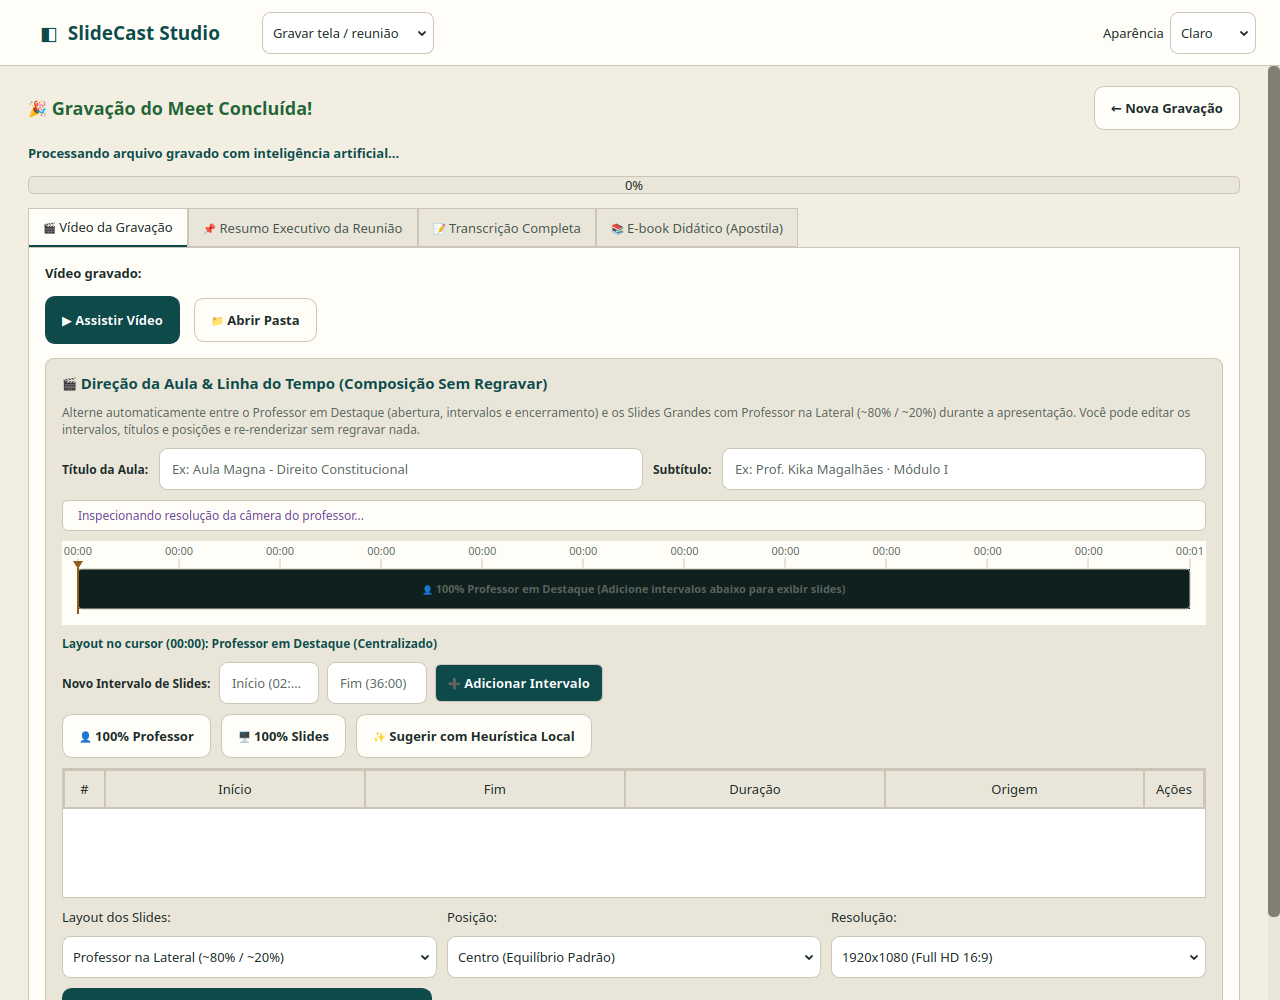
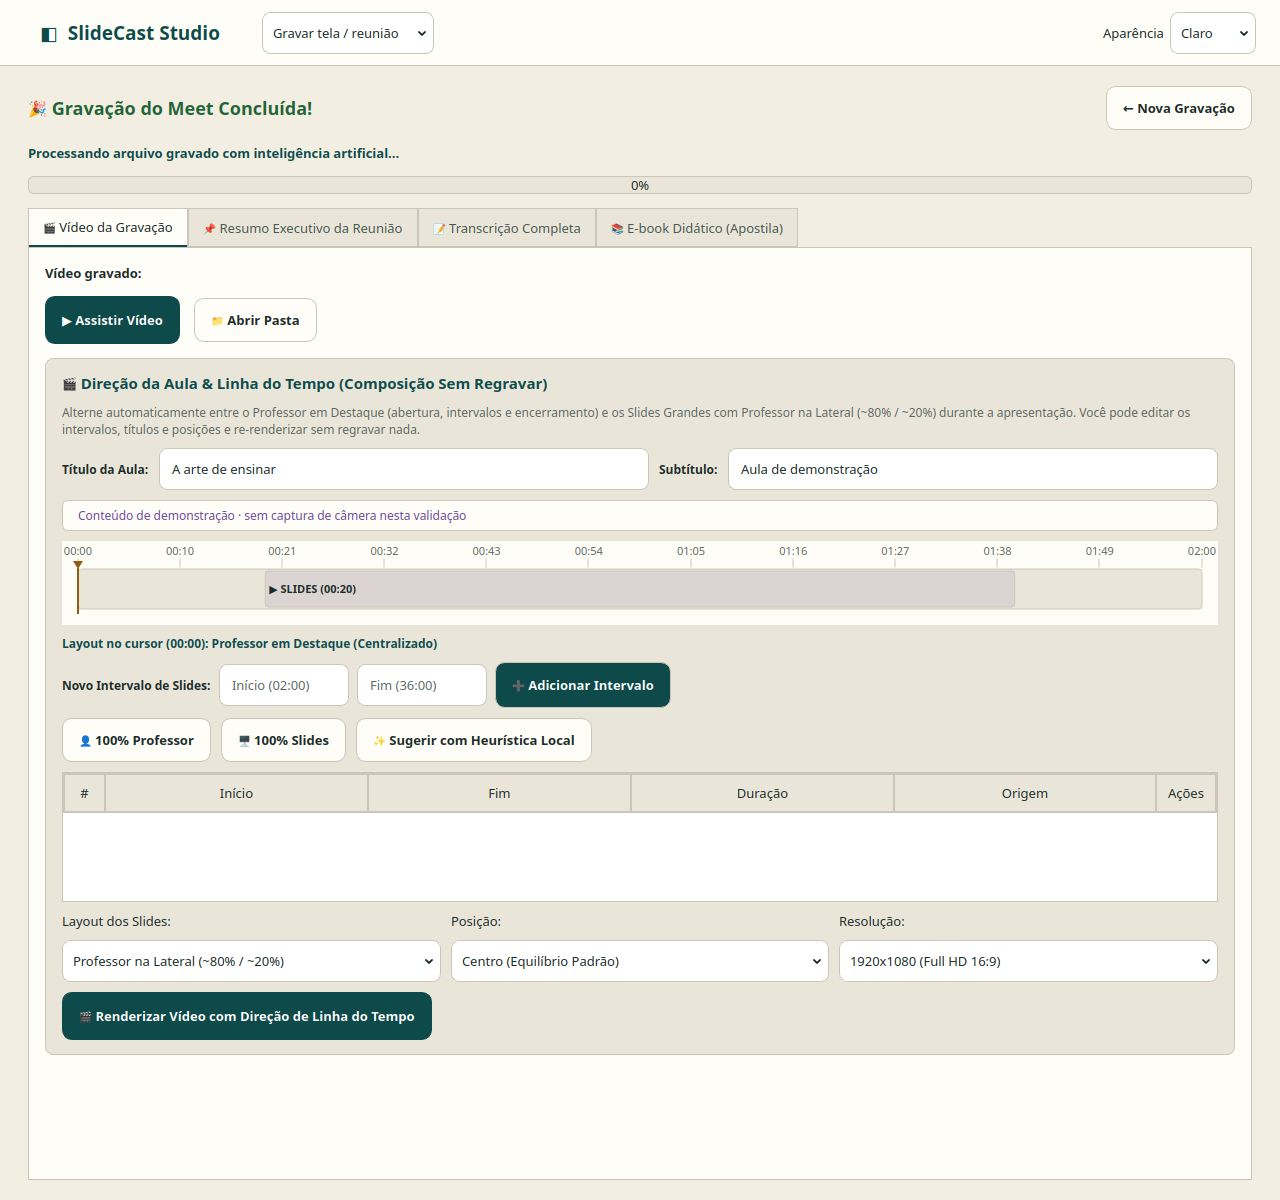
Document published packages, production checks, and backend licensing handoff

diff --git a/docs/slidecast-distribuicao-validacao.md b/docs/slidecast-distribuicao-validacao.md
@@ -1,0 +1,65 @@
+# Distribuição desktop e refinamento visual — 19/11/2026
+
+## Escopo
+
+Versão desktop 1.2.0: temas claro/escuro, editor PDF/MP4 com quatro faixas, gravação, captura em duas áreas e direção de aula por intervalos. O código de captura/direção integrado por outra frente foi preservado. O acabamento adicional corrige estilos de painéis herdados pelos filhos, reduz bordas decorativas a 1 px, amplia botões e organiza os campos da captura/direção em grades sem rolagem horizontal a 1280 px.
+
+Fonte desktop preparada: `143cef1baacdd28a3021a091e95715feb72eba69`. A publicação é feita pelo workflow Desktop release, que só cria a release após os três sistemas passarem pelo teste do executável empacotado. Os dados finais dos arquivos constam em `evidencias/distribuicao/release-metadata.json`.
+
+## Empacotamento e verificações
+
+- FFmpeg completo e ffprobe são incluídos como binários PyInstaller, com dependências compartilhadas coletadas. O aplicativo congelado prioriza as ferramentas internas; execução pelo código-fonte mantém o comportamento de PATH.
+- A versão compacta do FFmpeg do imageio foi substituída porque não oferecia PulseAudio. O teste agora exige `pulse`/`x11grab` no Linux, `dshow`/`gdigrab` no Windows e `avfoundation` no macOS.
+- O Windows usa o arquivo oficial distribuído pela Gyan, com SHA256 fixado no workflow. Linux usa Ubuntu 24.04; macOS usa o runner 15 Apple Silicon. O runner macOS 14 foi substituído após sua retirada pelo GitHub.
+- O teste executa o próprio bundle com PATH vazio no Linux/macOS e restrito ao System32 no Windows, sem overrides de FFmpeg/Python do desenvolvedor.
+- São gerados MP4s reais a partir de PDF e MP4 com quatro faixas, validados por ffprobe; o projeto é salvo/reaberto e a janela Qt é desenhada em ambos os temas.
+- A verificação local do bundle Linux passou com FFmpeg/ffprobe 6.1.1: PDF e MP4 de 2,0 s, 320×180, áudio presente e módulos de captura disponíveis.
+
+Referências primárias de distribuição: [FFmpeg](https://ffmpeg.org/download.html), [Gyan](https://www.gyan.dev/ffmpeg/builds/), [runners oficiais do GitHub](https://github.com/actions/runner-images).
+
+## Interface e testes locais
+
+A suíte final passou com **229 testes** em 146,73 s, após a integração dos recursos e dos ajustes. A validação direcionada anterior passou com 50 testes de desktop, gravação, direção e roteamento. Ruff e build TypeScript/Vite passaram. Há um aviso de depreciação do TestClient/httpx, sem falhas.
+
+Capturas reais Qt: `evidencias/refino-claro/` e `evidencias/refino-escuro/`. Incluem painéis de aula, menu, editor, estúdio, captura em duas áreas e direção por linha do tempo. As amostras de mídia são sintéticas; não se trata de gravação de câmera/microfone físico. A interface também foi conferida a 1280×800 e escala 150% em cenários de estúdio.
+
+## Site e disponibilidade
+
+A landing usa `frontend/landing/public/releases.json`, copiado para o build e servido também por `GET /api/releases/latest`. O campo `status` controla a exposição dos downloads. Em preparação, não há botões que levem a arquivos ainda inexistentes. Na publicação, versão, data, tamanho e SHA256 devem vir dos assets reais da release, e cada relatório de self-test deve estar aprovado.
+
+A landing não anuncia preço, gratuidade, trial ou licença comercial não definidos. Compra/ativação continuam como trabalho do backend, descrito no [prompt de implementação](SLIDECAST_PROMPT_BACKEND_COMPRA_LICENCA_ATIVACAO.md).
+
+## Produção e reversão
+
+Servidor existente, `/opt/slidecast`, Compose `slidecast`. Backup desta etapa: `/opt/slidecast/backups/distribution-20261119T201601Z`, restrito ao root, com landing anterior, fonte, cópia consistente do banco, imagens e IDs dos containers. Imagem web anterior preservada pela tag `slidecast-web:rollback-distribution-20261119T201601Z`.
+
+Antes da distribuição, o site foi corrigido para mostrar o estado de preparação: Chromium a 390 px confirmou dois avisos de preparação, zero links para assets ainda não publicados e ausência de overflow horizontal. Essa correção estática emergencial foi incorporada à imagem final na ativação. Configuração, dados, Redis, worker e demais aplicações são preservados.
+
+## Limites
+
+Pacotes portáteis/aplicativo empacotado, sem assistente MSI/DEB/RPM nem assinatura comercial de código. Compatibilidade mínima anunciada: Windows 10/11 x64, Ubuntu 24.04 x64 (glibc 2.39), macOS 15 Apple Silicon. Os runners comprovam funcionamento automatizado; não substituem homologação com câmera, microfone, monitores, permissões e drivers físicos. No Linux, captura de tela usa X11; ambientes Wayland podem exigir sessão X11.
+
+## Resultado final
+
+A [release v1.2.0](https://github.com/kikamagalhaes/slidecast-studio/releases/tag/v1.2.0) foi publicada em 2026-11-19T20:34:19Z, com nove assets: três pacotes, três arquivos SHA256 e três relatórios. O [workflow de distribuição](https://github.com/kikamagalhaes/slidecast-studio/actions/runs/44607195571) terminou com sucesso nas três plataformas e na publicação. A etapa Linux foi retomada após lentidão no espelho de pacotes Ubuntu; os artefatos Windows/macOS aprovados foram preservados. O [CI da fonte desktop](https://github.com/kikamagalhaes/slidecast-studio/actions/runs/44607177905) também passou.
+
+| Plataforma | Tamanho real (bytes) | SHA256 |
+|---|---:|---|
[3 lines of base64/hex data omitted]
+
+Os SHA256 publicados coincidem com os digests dos assets no GitHub. Os três downloads públicos responderam HTTP 200 com o tamanho esperado. O TAR.GZ Linux foi baixado integralmente do endereço público, conferido por SHA256, extraído e executado com o verificador de bundle: **aprovado**, com PDF/MP4 de 2,0 s, áudio, dois temas e módulos de captura. Evidência: `evidencias/distribuicao/linux-download-self-test.json`.
+
+Ativação web concluída no commit `21e49fa`. Conferência pública em 2026-11-20T00:37:13.239Z:
+
+- Chromium nas larguras 1440, 768 e 390 px: HTTP 200, canonical correto, imagens carregadas, FAQ funcional, dois downloads reais, botões com pelo menos 48 px de altura e nenhum overflow horizontal ou erro JavaScript/recurso.
+- `/api/releases/latest` idêntico ao manifesto conferido. `/api/health`: healthy, zero jobs pendentes. `/studio`: 404; `/api/auth/me` sem sessão: 401.
+- Somente o container web foi recriado; **23 containers** mantiveram seus IDs, incluindo worker e Redis. Os três serviços SlideCast estão saudáveis.
[1 lines of base64/hex data omitted]
+- Imagem web: `sha256:7012a3b0bfa6cd9e79161d8ab5d6edda1a75485321c93e2e6ace23e466fa8524`.
+- Evidências: `evidencias/distribuicao/producao-checks.json`, screenshots por viewport e `downloads-publicados.png`.
+
+Compra, licença e ativação desktop continuam pendentes da implementação descrita no prompt do backend. Nenhuma condição comercial foi inventada.
+
+

diff --git a/docs/SLIDECAST_PROMPT_BACKEND_COMPRA_LICENCA_ATIVACAO.md b/docs/SLIDECAST_PROMPT_BACKEND_COMPRA_LICENCA_ATIVACAO.md
@@ -8,11 +8,11 @@ O produto principal é o desktop para Windows e Linux. A web é apresentação c
 
 - Repositório: `https://github.com/kikamagalhaes/slidecast-studio`.
 - Checkout canônico local: `/home/kika-magalhaes/Plataformas/slidecast/slidecast-studio`.
-- Site público: `https://kikamagalhaes.com.br/slidecast/`.
+- Site público: `https://kikamagalhaes.com.br/slidecast/`, atualizado com downloads reais no commit `21e49fa` e conferido em desktop/tablet/celular.
 - Desktop: `main.py`, `app/ui/`, `app/core/`.
 - Landing: `frontend/src/landing.tsx`, `frontend/src/landing.css`.
 - Distribuição: `.github/workflows/release.yml`, `slidecast.spec`, `scripts/fetch_ffmpeg.py`, `scripts/verify_bundle.py`.
-- A release 1.2.0 introduz o novo desktop e FFmpeg/ffprobe empacotados. Confirme a release e seus artefatos no GitHub e em `docs/slidecast-distribuicao-validacao.md`; não reutilize links históricos como se fossem a versão nova.
+- A [release 1.2.0](https://github.com/kikamagalhaes/slidecast-studio/releases/tag/v1.2.0) foi publicada em 19/11/2026 com os três pacotes e FFmpeg/ffprobe completos. Windows, Linux e macOS passaram no self-test do bundle; o download público Linux também foi extraído e executado com sucesso. Fonte desktop: `143cef1`. Consulte `docs/slidecast-distribuicao-validacao.md` e os relatórios/SHAs em `docs/evidencias/distribuicao/`. Não reutilize links históricos como se fossem a versão nova.
 - Os downloads são pacotes portáteis/aplicativo empacotado; não anuncie MSI, DEB ou RPM inexistentes.
 
 A cobrança atual **não é uma licença desktop**. Ela controla uma assinatura do estúdio web, com trial/cotas de renderização. Não trate a cota mensal ou o trial histórico como uma decisão comercial sobre o aplicativo local.
